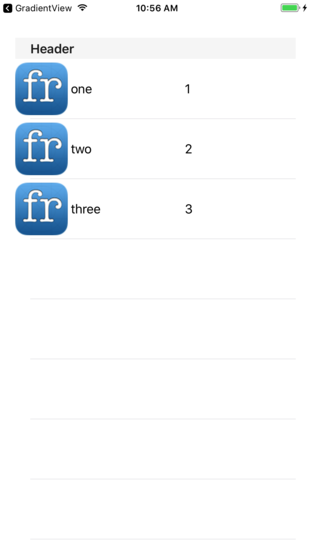
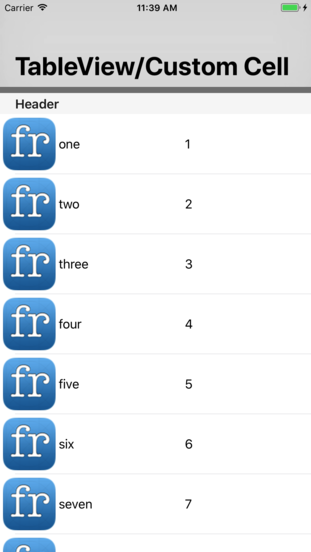
fixed screenshots

diff --git a/TableViewWithCustomCell/TableViewWithCustomCell/ViewController.swift b/TableViewWithCustomCell/TableViewWithCustomCell/ViewController.swift
@@ -13,39 +13,28 @@ class ViewController: UIViewController {
     let tableViewController = SimpleTableViewController()
     
     func addTableView() {
-        
-        let viewDictionary:[String:AnyObject] = [
-            "tableView": tableViewController.tableView,
-            
-            ]
+
         tableViewController.tableView.translatesAutoresizingMaskIntoConstraints = false
-        
         self.view.addSubview(tableViewController.tableView)
         
-        let metrics:[String:AnyObject] = [:]
+        let guide = view.safeAreaLayoutGuide
         
-        let h0Constraint = "H:|-[tableView]-|"
-        let v0Constraint = "V:|-50-[tableView]-|"
-        
-        [h0Constraint, v0Constraint].forEach {
-            
-            let constraint = NSLayoutConstraint.constraints(withVisualFormat: $0, options: [], metrics: metrics, views: viewDictionary)
-            
-            NSLayoutConstraint.activate(constraint)
-        }
-        
+        NSLayoutConstraint.activate([
+            tableViewController.tableView.topAnchor.constraintEqualToSystemSpacingBelow(guide.topAnchor, multiplier: 1.0),
+            tableViewController.tableView.bottomAnchor.constraintEqualToSystemSpacingBelow(view.bottomAnchor, multiplier: 1.0),
+
+            tableViewController.tableView.leftAnchor.constraint(equalTo: self.view.leftAnchor, constant: 0),
+            tableViewController.tableView.rightAnchor.constraint(equalTo: self.view.rightAnchor, constant: 0),
+            ])
     }
     
     override func viewDidLoad() {
         super.viewDidLoad()
+        self.view.backgroundColor = .gray
+        navigationController?.navigationBar.prefersLargeTitles = true
+        self.title = "TableView/Custom Cell"
         addTableView()
     }
-    
-    override func didReceiveMemoryWarning() {
-        super.didReceiveMemoryWarning()
-        // Dispose of any resources that can be recreated.
-    }
-    
-    
+
 }
 

diff --git a/TableViewWithCustomCell/TableViewWithCustomCell/SimpleTableViewController.swift b/TableViewWithCustomCell/TableViewWithCustomCell/SimpleTableViewController.swift
@@ -10,7 +10,7 @@ import UIKit
 
 class  SimpleTableViewController: UITableViewController {
     
-    let rowData = ["one", "two", "three"]
+    let rowData = ["one", "two", "three", "four", "five", "six", "seven", "eight", "nine", "ten"]
     let CellIdentifier = "Cell"
     
     override func viewDidLoad() {
